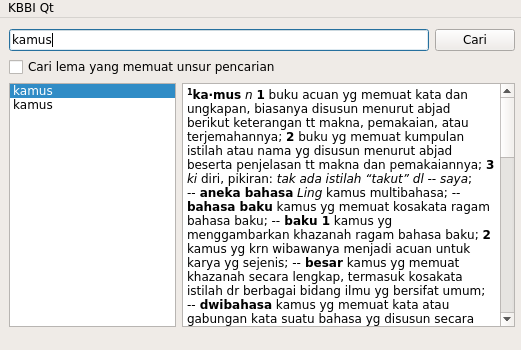
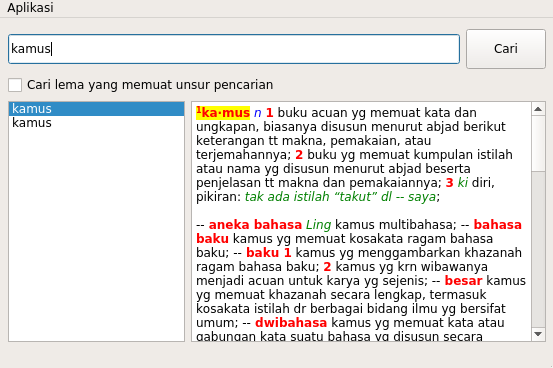
dokumentasi, sampai commit b92d1d7
* Ubah KBBI-qt jadi KBBI-Qt
* Tambahkan penjelasan pada poin 2
* Perbarui tangkapan layar
* Pecah poin 4, menjadi sub-sub poin 4.x + tambah info

Changed region(s): [[0.0, 0.0571, 1.0, 0.9429], [0.0, 0.0, 0.1228, 0.0571], [0.9827, 0.0857, 1.0, 0.2]]

diff --git a/doc/dokumentasi.md b/doc/dokumentasi.md
@@ -1,16 +1,16 @@
-# 1. Pengenalan KBBI-qt
-## 1.1 Apa itu KBBI-qt
+# 1. Pengenalan KBBI-Qt
+## 1.1 Apa itu KBBI-Qt?
 KBBI-Qt adalah aplikasi Kamus Besar Bahasa Indonesia yang dikembangkan dengan bahasa pemrograman C++ dan Framework Qt.
 
 Dirilis dengan lisensi GPLv3, aplikasi yang dikembangkan oleh komunitas Belajar GNU/Linux Indonesia (BGLI) ini dapat digunakan, didistribusikan, dan dikembangkan secara bebas.
 
-## 1.2 Keuntungan menggunakan KBBI-qt
-Badan Pengembangan dan Pembinaan Bahasa (Badan Bahasa) serta Kementrian Pendidikan dan Kebudayaan (Kemendikbud) sebenarnya telah merilis aplikasi KBBI berbasis web; [kbbi.web.id][0] (KBBI III), [kbbi4.portalbahasa.com][1] (KBBI IV), dan [kbbi.kemdikbud.go.id][2] (KBBI V). Namun, ketiganya memiliki kekurangan, yakni pengguna harus dalam keadaan daring untuk mengaksesnya.
+## 1.2 Keuntungan menggunakan KBBI-Qt
+Badan Pengembangan dan Pembinaan Bahasa (Badan Bahasa) serta Kementrian Pendidikan dan Kebudayaan (Kemendikbud) sebenarnya telah merilis aplikasi KBBI berbasis web; [kbbi.web.id][0] (KBBI III), [kbbi4.portalbahasa.com][1] (KBBI IV), dan [kbbi.kemdikbud.go.id][2] (KBBI V). Namun, ketiganya memiliki kekurangan, yakni pengguna harus mengaksesnya dalam keadaan daring (*online*).
 
-KBBI-qt ingin memastikan bahwa pengguna bisa mengakses KBBI dalam keadaan luring melalui komputer atau laptop.
+KBBI-Qt ingin memastikan bahwa pengguna bisa mengakses KBBI dalam keadaan luring melalui komputer atau laptop.
 
-# 2. Pemasangan KBBI-qt
-Beberapa kontributor telah memaketkan aplikasi KBBI-qt ke paket-paket distro tertentu. Berikut cara instalasi KBBI-qt.
+# 2. Pemasangan KBBI-Qt
+Beberapa kontributor telah memaketkan aplikasi KBBI-Qt ke paket-paket distro tertentu. Berikut cara instal KBBI-Qt di CentOS/RHEL7 dan Fedora 23/34/25/Rawhide. Serta cara instal melalui *source code* (*compile* manual).
 
 ## 2.1 Di CentOS/RHEL7
     $ sudo wget https://copr.fedorainfracloud.org/coprs/alunux/kbbi-qt-git/repo/epel-7/alunux-kbbi-qt-git-epel-7.repo -O /etc/yum.repos.d/kbbi-qt.repo
@@ -21,7 +21,9 @@ Beberapa kontributor telah memaketkan aplikasi KBBI-qt ke paket-paket distro ter
     $ sudo dnf install KBBI-Qt
 
 ## 2.4 Di distro X
+
 ## 2.x Instal dari source code
+
     $ git clone https://github.com/bgli/kbbi-qt.git
     $ cd kbbi-qt/src
     $ qmake -project
@@ -30,19 +32,31 @@ Beberapa kontributor telah memaketkan aplikasi KBBI-qt ke paket-paket distro ter
 # 3. Pengenalan antar muka
 ![pengenalan antarmuka](gbr/pengenalan-antarmuka.png)
 
-# 4. Penggunaan KBBI-qt
-Untuk mencari arti kata "kamus", ketikan kata "kamus" dalam kolom pencarian, lalu klik tombol "Cari" atau tekan Enter pada *keyboard*.
+# 4. Penggunaan KBBI-Qt
+
+## 4.1 Cari arti kata
+
+Untuk mencari arti kata "kamus", ketikkan kata "kamus" dalam kolom pencarian, lalu klik tombol "Cari" atau tekan Enter pada *keyboard*.
 
 Hasil pencarian akan muncul pada kolom kanan, lihat gambar di bawah ini.
+
 ![cari kata](gbr/kbbi-qt-cari-kata.png)
 
-Jika kata yang dicari mengandung lebih dari satu arti, kata akan muncul sebanyak arti kata tersebut. Lihat pada hasil pencarian arti kata "kamus" di atas, kata "kamus" memiliki dua arti, sehingga ia akan muncul dua kali. Untuk melihat arti lain dari kata "kamus", silakan klik kata "kamus" lainnya atau gunakan tombol panah (atas bawah).
+Jika kata yang dicari mengandung lebih dari satu arti, kata akan muncul sebanyak arti kata tersebut. Lihat pada hasil pencarian arti kata "kamus" di poin 4.1, kata "kamus" memiliki dua arti, sehingga ia akan muncul dua kali. Untuk melihat arti lain dari kata "kamus", silakan klik kata "kamus" lainnya atau gunakan tombol panah (atas bawah) pada *keyboard*.
+
 ![cari kata](gbr/kbbi-qt-cari-kata-1.png)
+
+## 4.2 Cari arti atau kata yang mengandung lema
 
 Centang pada "Cari lema yang memuat unsur pencarian" untuk menghasilkan daftar lema yang artinya memuat kata yang dicari.
 
 Misal, kata "kamus" termuat dalam arti kata "bahasa", "bausastra", "beli", dll.
+
 ![cari kata](gbr/kbbi-qt-cari-kata-2.png)
+
+## 4.3 Perbesar fonta pada kolom hasil pencarian
+
+Klik kolom hasil pencarian, tahan tombol *Ctrl* pada *keyboard*, lalu *scroll* menggunakan *mouse*.
 
 # 5. Solusi masalah, misal kalau ada masalah di distro tertentu, bukan bug (opsional)
 
